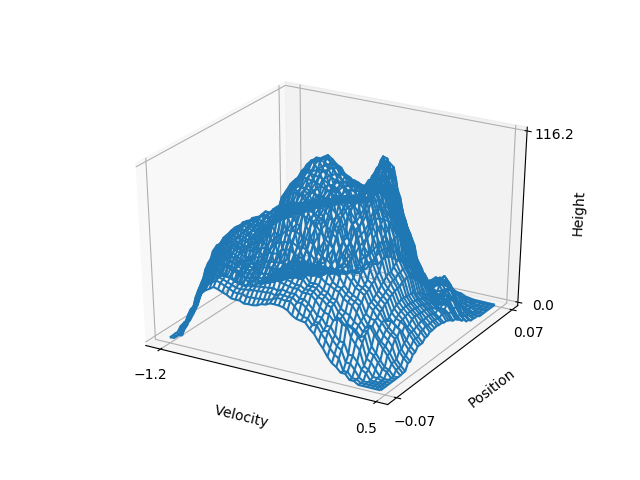
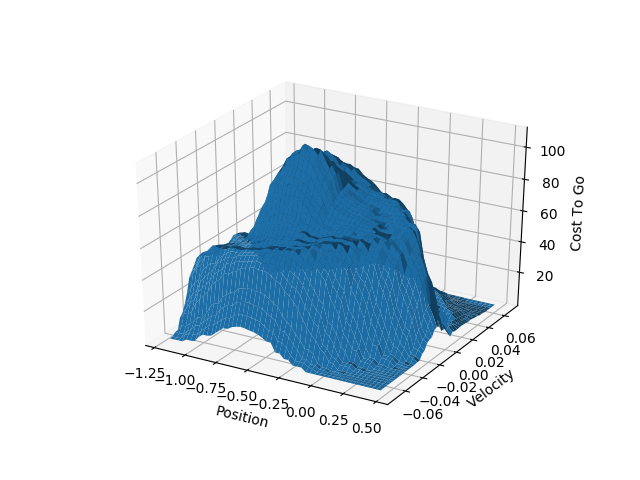
Corrects miscalculation of height and mountain descent swirl direction

diff --git a/assignment7/part3/mountaincar_exp.py b/assignment7/part3/mountaincar_exp.py
@@ -33,24 +33,24 @@ if __name__ == "__main__":
     fout = open('value', 'w')
     steps = 50
     data = np.zeros([steps, steps])
-    for i in range(steps):
-        for j in range(steps):
+    for i in range(steps): # POSITION
+        for j in range(steps): # VELOCITY
             values = []
             for a in range(3):
                 # tilecode ([pos = -1.2 + (i * 1.7 / steps), vel = -0.07 + (j * 0.14 / steps)], action = [a]) => inds
-                position = 8.0 * (float(i)/steps*1.7) / (1.2 + 0.5) # add lower bound 1.2 to get positives only, divide by range
-                velocity = 8.0 * (float(j)/steps*0.14) / (0.07 + 0.07)
+                position = 8.0 * (float(i)/steps) # add lower bound 1.2 to get positives only, divide by range
+                velocity = 8.0 * (float(j)/steps)
                 tile = [position, velocity]
 
                 inds = F(tile, a)
 
-                value = - np.sum(weights[inds])
+                value = np.sum(weights[inds])
                 # values.append(-Q(inds,w))
                 values.append(value)
             # height = max of values
             height = max(values)
 
-            data[i,j] = height
+            data[j,i] = - height
             fout.write(repr(height) + ' ')
         fout.write('\n')
     fout.close()

diff --git a/assignment7/part3/plot2.py b/assignment7/part3/plot2.py
@@ -15,23 +15,23 @@ if os.path.exists(filename):
   inp = np.load(filename)
   data = np.array([])
   data = np.append(data, inp)
-  print(data)
 
 
   x = np.arange(-1.2, 0.5, 1.7 / 50)
   y = np.arange(-0.07, 0.07, 0.14 / 50)
   # x = np.arange(0, 50, 1)
   # y = np.arange(0, 50, 1)
+
   data = data.reshape(len(x), len(y))
   x1, y1 = np.meshgrid(x, y)
 
 
-  ax.set_xticks([-1.2, 0.5])
-  ax.set_yticks([-0.07, 0.07])
-  ax.set_zticks([0, np.amax(data)])
-  ax.set_ylabel('Position')
-  ax.set_xlabel('Velocity')
-  ax.set_zlabel('Height')
-  ax.plot_wireframe(x1, y1, data)
+  # ax.set_xticks([-1.2, 0.5])
+  # ax.set_yticks([0.07, -0.07])
+  # ax.set_zticks([0, np.amax(data)])
+  ax.set_ylabel('Velocity')
+  ax.set_xlabel('Position')
+  ax.set_zlabel('Cost To Go')
+  ax.plot_surface(x1, y1, data)
   plt.savefig('3d.png')
   plt.show()
